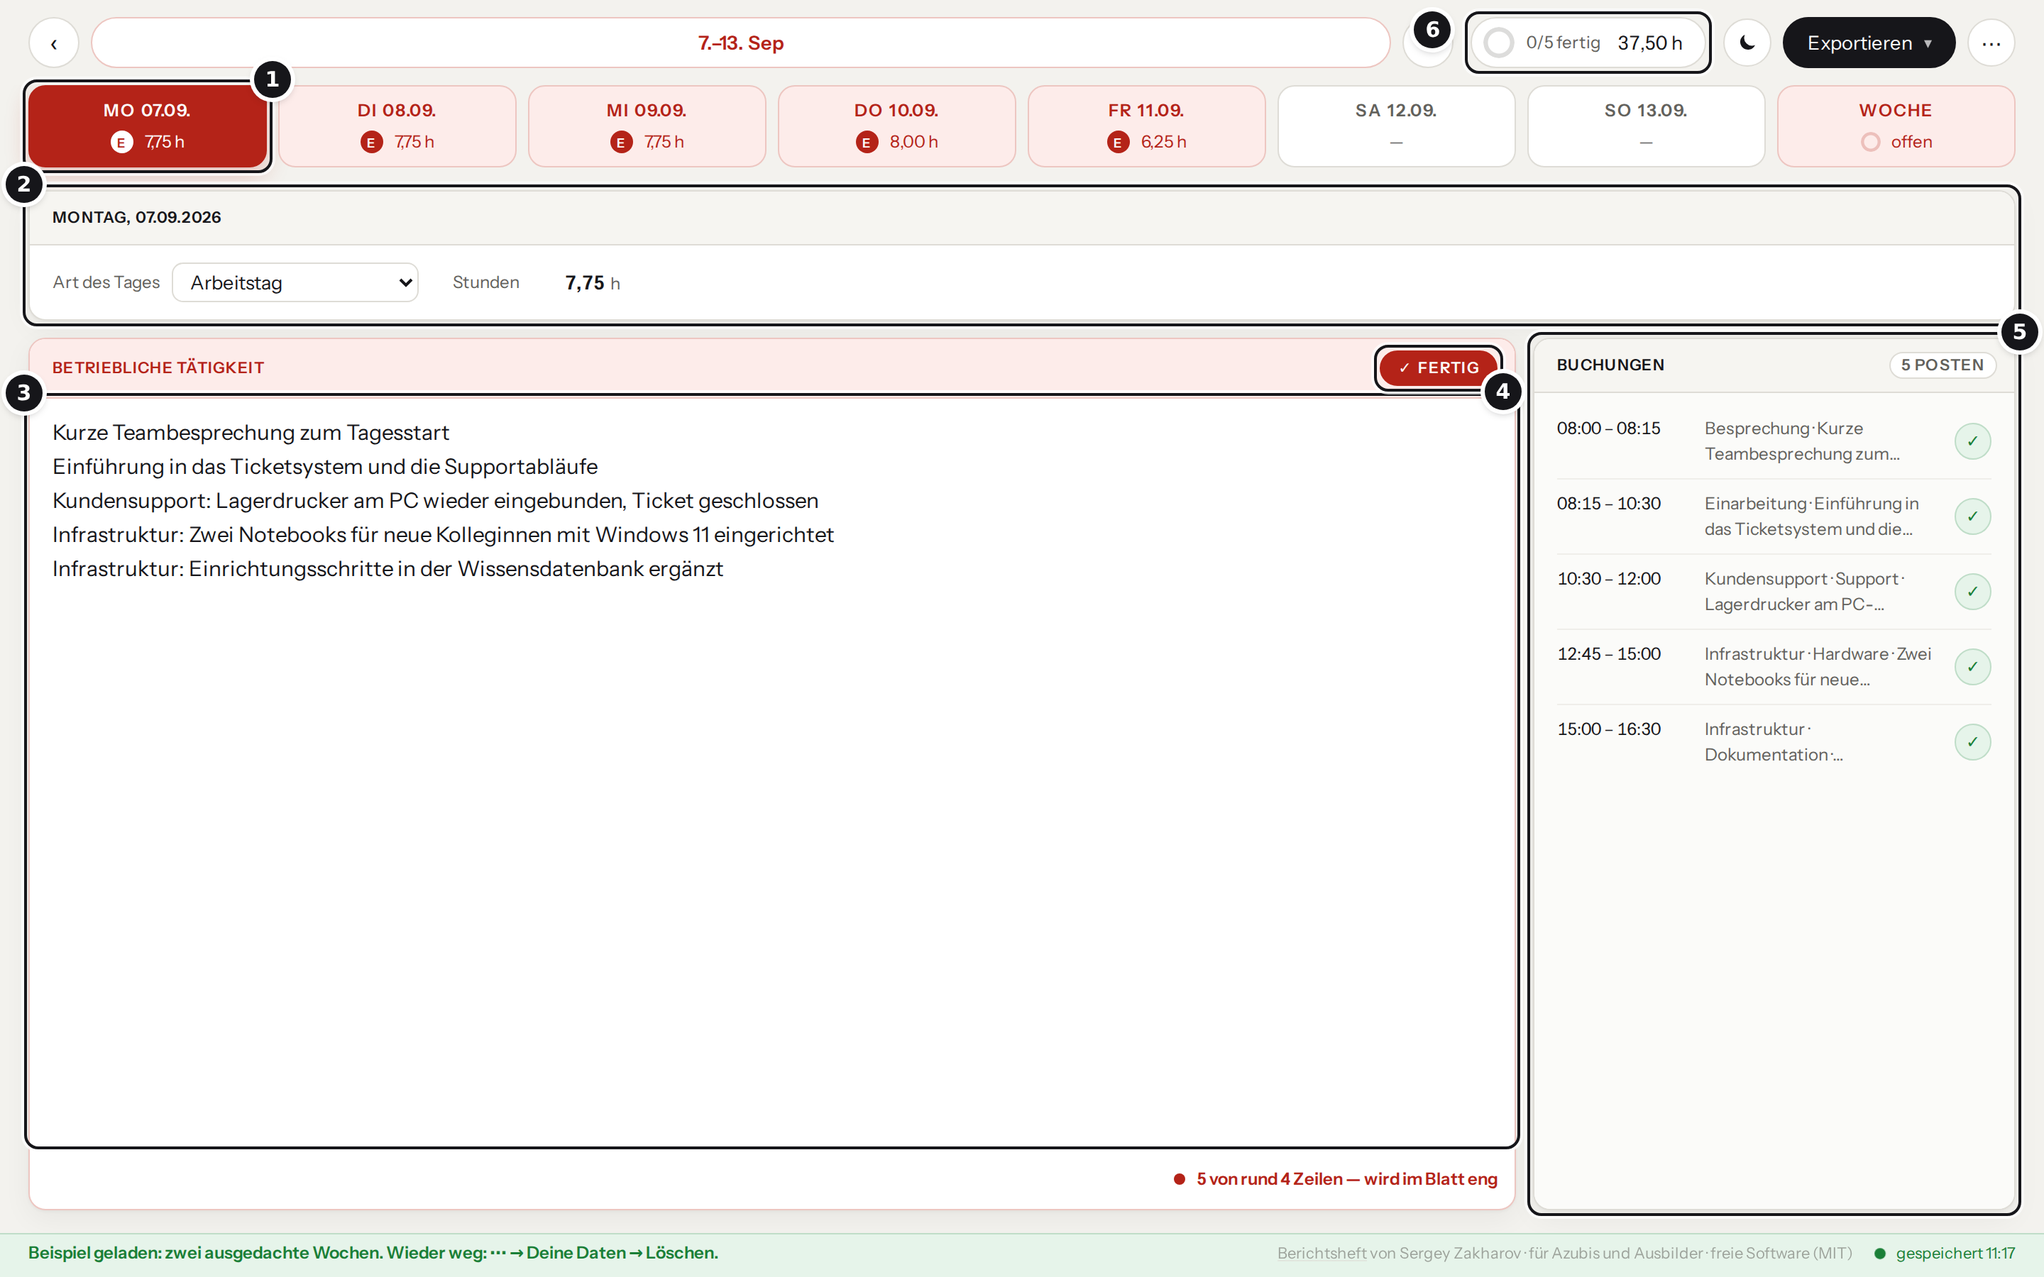
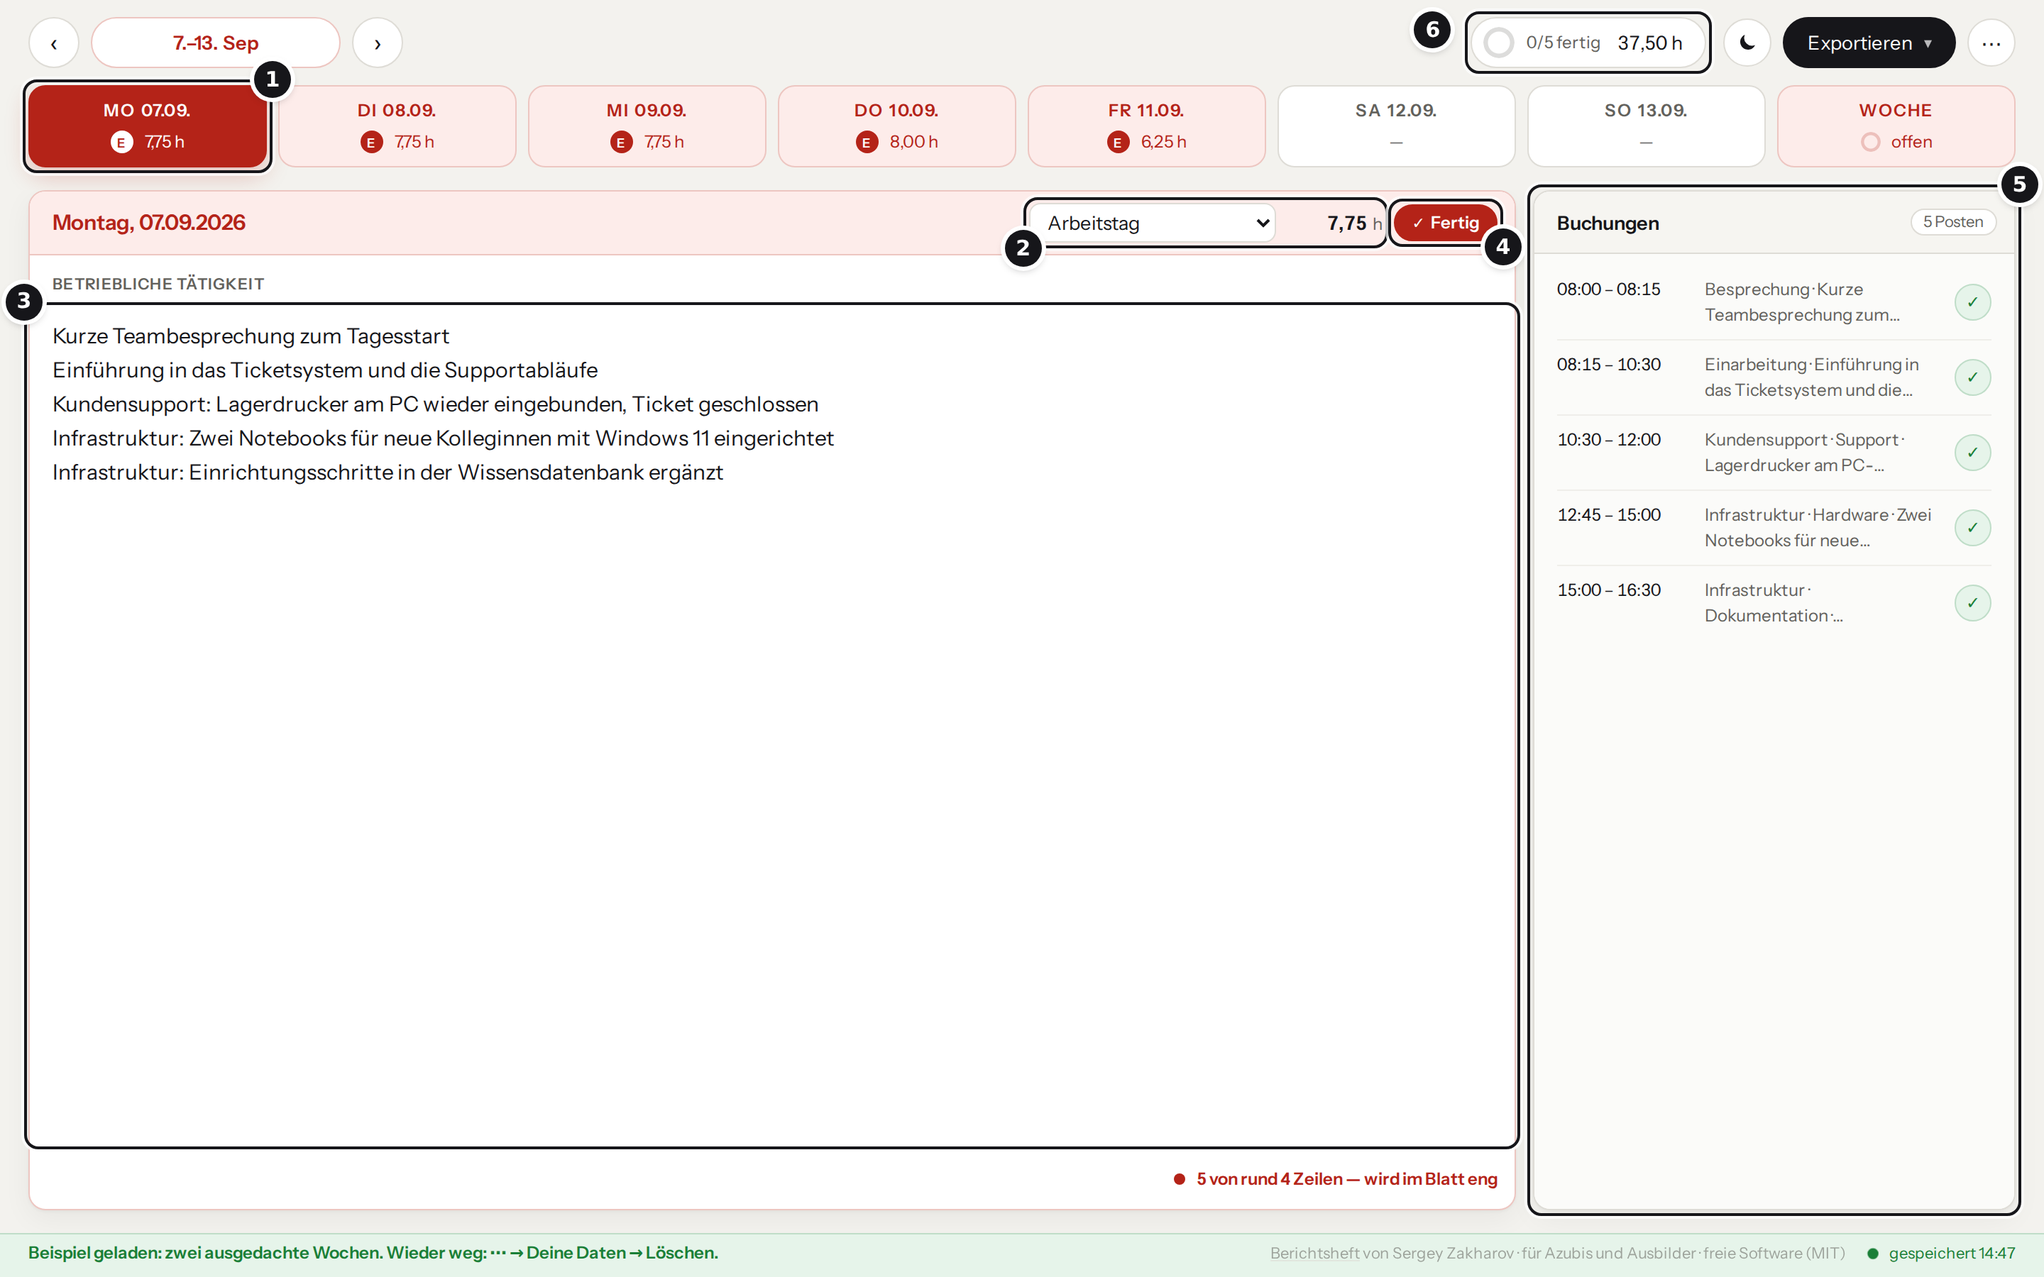
Hauptansicht ruhiger: eine Karte je Tag, Überschriften normal, Wochenwahl kompakt
- Tageskopf und Textkarte werden eine Karte: Das Datum ist ihr Titel, Art des Tages und
  Stunden (tagFelder()) und „Fertig“ stehen im Kopf, über dem Text klein das Feld des
  Vordrucks (.vordruckfeld). Ein freier Tag hat weiter nur seinen Kopf (artSektion()).
  Die Beschriftungen „Art des Tages“ und „Stunden“ sind nur noch für Vorleser da.
- Überschriften der Karten und Knöpfe darin in normaler Schreibung, 13,5 px halbfett;
  Versalien bleiben kleinen Nebenangaben.
- Die Wochenwahl steht kompakt links in der Kopfleiste statt über die ganze Breite; am
  Handy füllt sie wie bisher ihre eigene Zeile. Dort steht in der Tageskarte das Datum
  allein oben, darunter Art, Stunden und „Fertig“.
- Tests suchen die Beschriftung jetzt in .vordruckfeld und die kurze Überschrift in
  normaler Schreibung; Marker im README-Bild zeigt auf Art und Stunden im neuen Kopf.

diff --git a/src/js/ansicht/ansicht-tag.js b/src/js/ansicht/ansicht-tag.js
@@ -81,7 +81,8 @@ function zeichneTag() {
 
   var panel = document.createElement("div");
   panel.className = "tagpanel" + (istFrei ? " frei" : "");
-  panel.appendChild(artSektion(datum, key, t, art, istFrei));
+  // Ein freier Tag hat nur seinen Kopf; sonst stehen Art und Stunden im Kopf der Textkarte.
+  if (istFrei) panel.appendChild(artSektion(datum, key, t, art, istFrei));
 
   if (istFrei) {
     var ruhig = document.createElement("p");
@@ -93,7 +94,7 @@ function zeichneTag() {
     if (tagImWochenfeld(key)) panel.appendChild(wochenfeldHinweis());
     var flaeche = document.createElement("div");
     flaeche.className = "tagflaeche";
-    var textKarte = textSektion(key, t, art, istSchule);
+    var textKarte = textSektion(key, t, art, istSchule, datum);
     flaeche.appendChild(textKarte);
     if (t && t.posten && t.posten.length) flaeche.appendChild(postenSektion(t.posten, textKarte.querySelector("textarea")));
     panel.appendChild(flaeche);
@@ -174,16 +175,27 @@ function zeichneLeerbild(bereich) {
   bereich.appendChild(leer);
 }
 
-/** Kopf des Tages: Art des Tages und Stunden. Die Stunden kommen aus dem Import
- *  und sind nur Anzeige; im Nachweis steht keine Stundenzahl. */
+/** Kopf eines freien Tages: nur Datum und Art. */
 function artSektion(datum, key, t, art, istFrei) {
   var s = sektion(dmy(datum), "artkopf");
-  // Am Handy steht der Wochentag schon im gewählten Reiter; dort fällt er hier weg (handy.css).
+  tagTitel(s, datum);
+  s.leib.appendChild(tagFelder(datum, key, t, art, istFrei));
+  return s.wurzel;
+}
+
+/** Der Wochentag vor dem Datum im Titel. Am Handy steht er schon im Reiter (handy.css). */
+function tagTitel(s, datum) {
   var wochentag = document.createElement("span");
   wochentag.className = "wochentag";
   wochentag.textContent = WOCHENTAGE[datum.getDay()] + ", ";
   s.kopf.firstChild.insertBefore(wochentag, s.kopf.firstChild.firstChild);
+}
 
+/** Art des Tages und Stunden. Die Stunden kommen aus dem Import und sind nur Anzeige; im
+ *  Nachweis steht keine Stundenzahl. Die Beschriftungen sind nur für Vorleser da. */
+function tagFelder(datum, key, t, art, istFrei) {
+  var felder = document.createElement("div");
+  felder.className = "tagfelder";
   var wahl = document.createElement("select");
   wahl.id = "feld-art";
   wahl.className = art ? "gesetzt" : "";
@@ -201,7 +213,7 @@ function artSektion(datum, key, t, art, istFrei) {
     tage[key].artVonHand = true;
     merken(); zeichnen();
   });
-  s.leib.appendChild(feldPaar("Art des Tages", wahl, "feld-art"));
+  felder.appendChild(feldPaar("Art des Tages", wahl, "feld-art"));
 
   if (!istFrei) {
     var wrap = document.createElement("span");
@@ -216,9 +228,9 @@ function artSektion(datum, key, t, art, istFrei) {
     einheit.className = "einheit";
     einheit.textContent = "h";
     wrap.appendChild(einheit);
-    s.leib.appendChild(feldPaar("Stunden", wrap));
+    felder.appendChild(feldPaar("Stunden", wrap));
   }
-  return s.wurzel;
+  return felder;
 }
 
 /**
@@ -229,11 +241,19 @@ function artSektion(datum, key, t, art, istFrei) {
  * ist er grün und schreibgeschützt; "Bearbeiten" öffnet ihn wieder. Jede
  * Änderung hebt die Freigabe auf.
  */
-function textSektion(key, t, art, istSchule) {
-  var s = sektion(
-    istSchule ? (art === "Berufsschule" ? "Berufsschule (Unterrichtsthemen)" : "Inhalte")
-              : "Betriebliche Tätigkeit",
-    "wachsend");
+function textSektion(key, t, art, istSchule, datum) {
+  // Eine Karte je Tag: im Kopf das Datum mit Art, Stunden und „Fertig“, darüber dem Text das Feld
+  // des Vordrucks, in das er kommt.
+  var s = sektion(dmy(datum), "wachsend tagkarte");
+  tagTitel(s, datum);
+  s.kopf.appendChild(tagFelder(datum, key, t, art, false));
+  var feldname = document.createElement("label");
+  feldname.className = "vordruckfeld";
+  feldname.htmlFor = "feld-" + key;
+  feldname.textContent = istSchule
+    ? (art === "Berufsschule" ? "Berufsschule (Unterrichtsthemen)" : "Inhalte")
+    : "Betriebliche Tätigkeit";
+  s.leib.appendChild(feldname);
 
   var ta = document.createElement("textarea");
   ta.id = "feld-" + key;
@@ -292,7 +312,7 @@ function textSektion(key, t, art, istSchule) {
     var stand = tagStand(tage[key]);
     var offen = stand !== "fertig" && stand !== "leer";
     var fertig = stand === "fertig";
-    s.wurzel.className = "sektion wachsend" + (offen ? " pruefen" : fertig ? " fertig" : "");
+    s.wurzel.className = "sektion wachsend tagkarte" + (offen ? " pruefen" : fertig ? " fertig" : "");
     uebernehmen.hidden = !offen;
     bearbeiten.hidden = !fertig;
     ta.readOnly = fertig;

diff --git a/src/css/tag.css b/src/css/tag.css
@@ -49,10 +49,11 @@ body.ohnewoche .leerbild { margin: var(--luft-2) var(--luft-5); }
   border: 1px solid var(--linie); border-radius: var(--rund); box-shadow: var(--schatten);
 }
 .sektion.wachsend { flex: 1 1 auto; display: flex; flex-direction: column; min-height: 110px; }
+/* Überschriften in normaler Schreibung: Kleine Versalien in jeder Karte lasen sich schwer und
+   machten alles gleich laut. Versalien bleiben kleinen Nebenangaben (.vordruckfeld, .seitentitel). */
 .sektionskopf {
-  margin: 0; padding: var(--luft-2) var(--luft-3) var(--luft-2) var(--luft-4); min-height: 38px; display: flex; align-items: center; gap: var(--luft-2);
-  font-size: var(--schrift-fein); font-weight: 600; letter-spacing: var(--sperrung); line-height: 1.35;
-  text-transform: uppercase; color: var(--text);
+  margin: 0; padding: var(--luft-2) var(--luft-3) var(--luft-2) var(--luft-4); min-height: 44px; display: flex; align-items: center; gap: var(--luft-2);
+  font-size: var(--schrift-text); font-weight: 600; line-height: 1.35; color: var(--text);
   background: var(--band); border-bottom: 1px solid var(--linie);
 }
 .sektionskopf > span:first-child { flex: 1 1 auto; min-width: 0; }
@@ -87,8 +88,7 @@ body.ohnewoche .leerbild { margin: var(--luft-2) var(--luft-5); }
 }
 .sektionsknopf {
   flex: none; display: inline-flex; align-items: center; gap: var(--luft-1);
-  font: inherit; font-size: var(--schrift-fein); font-weight: 600; letter-spacing: var(--sperrung);
-  text-transform: uppercase; white-space: nowrap;
+  font: inherit; font-size: var(--schrift-klein); font-weight: 600; white-space: nowrap;
   background: var(--flaeche); color: var(--text);
   border: 1px solid var(--linie); border-radius: var(--rund-voll); padding: var(--luft-1) var(--luft-3);
   transition: background-color .15s, color .15s, border-color .15s;
@@ -214,8 +214,21 @@ body.ohnewoche .leerbild { margin: var(--luft-2) var(--luft-5); }
 }
 .tagpanel select:hover, .tagpanel select:focus { background: var(--band); border-color: var(--linie-fest); }
 
+/* Eine Karte je Tag: Datum als Titel, Art und Stunden daneben, darüber dem Text das Feld des
+   Vordrucks. Vorher standen Tageskopf und Text in zwei Karten übereinander. */
+.tagkarte > .sektionskopf { font-size: var(--schrift-gross); }
+.tagfelder { display: flex; align-items: center; gap: var(--luft-3); font-size: var(--schrift-text); font-weight: 400; }
+.tagkarte .tagfelder { margin-left: auto; }
+.tagkarte .feldetikett, .artkopf .feldetikett {
+  position: absolute; width: 1px; height: 1px; overflow: hidden; clip-path: inset(50%); white-space: nowrap;
+}
+.vordruckfeld {
+  flex: none; display: block; padding: var(--luft-3) var(--luft-4) 0;
+  font-size: var(--schrift-fein); font-weight: 600; letter-spacing: var(--sperrung);
+  text-transform: uppercase; color: var(--schiefer);
+}
 .tagpanel textarea {
-  flex: 1 1 auto; width: 100%; min-height: 100px; padding: var(--luft-3) var(--luft-4);
+  flex: 1 1 auto; width: 100%; min-height: 100px; padding: var(--luft-2) var(--luft-4) var(--luft-3);
   font: inherit; font-size: var(--schrift-gross); line-height: 1.6;
   color: var(--text); background: var(--flaeche);
   border: none; resize: none; overflow: auto;
@@ -308,7 +321,7 @@ body.ohnewoche .leerbild { margin: var(--luft-2) var(--luft-5); }
 
 /* Buchungen aus Kimai neben dem Text. */
 .postenzahl {
-  flex: none; font-size: var(--schrift-fein); letter-spacing: var(--sperrung); color: var(--schiefer);
+  flex: none; font-size: var(--schrift-fein); font-weight: 400; color: var(--schiefer);
   background: var(--flaeche); border: 1px solid var(--linie); border-radius: var(--rund-voll); padding: 1px var(--luft-2);
 }
 .sektion.posten .sektionsleib { padding: 0; display: block; overflow: hidden; }

diff --git a/src/css/handy.css b/src/css/handy.css
@@ -33,7 +33,7 @@
 
   .wochenschalter { gap: var(--luft-2); }
   .wochenschalter .rundknopf { width: 34px; height: 34px; }
-  .wochenknopf { padding: 0 var(--luft-3); height: 34px; line-height: 32px; font-size: var(--schrift-klein); }
+  .wochenknopf { flex: 1 1 auto; padding: 0 var(--luft-3); height: 34px; line-height: 32px; font-size: var(--schrift-klein); }
   .wochensumme { height: 34px; padding: 0 var(--luft-3) 0 var(--luft-2); gap: var(--luft-2); font-size: var(--schrift-klein); }
   .leiste .schub .farbknopf { width: 34px; height: 34px; }
   .wsanteil { gap: var(--luft-1); }
@@ -65,7 +65,11 @@
     flex: 1 1 auto; min-height: 0; padding: 0; letter-spacing: var(--sperrung);
     background: none; border: 0;
   }
-  .artkopf > .sektionskopf .wochentag { display: none; }
+  .artkopf > .sektionskopf .wochentag, .tagkarte > .sektionskopf .wochentag { display: none; }
+  .tagkarte .tagfelder select { width: 10em; max-width: 100%; }
+  /* Datum allein in der ersten Zeile, darunter Art und Stunden links, „Fertig“ rechts. */
+  .tagkarte > .sektionskopf > span:first-child { flex: 1 1 100%; }
+  .tagkarte .tagfelder { margin-left: 0; flex: 1 1 auto; }
   .artkopf > .sektionsleib { flex: 1 1 auto; justify-content: space-between; padding: 0; gap: var(--luft-3); flex-wrap: nowrap; }
   .artkopf .feldpaar { flex: none; }
   /* Sonst so breit wie die längste Art („Betriebsversammlung“), und die Zeile bräche um. */

diff --git a/src/css/leiste.css b/src/css/leiste.css
@@ -56,14 +56,16 @@ body.ohnewoche .leiste .schub { margin-left: auto; }
 }
 
 /* ---------- Wochenbalken: Blättern, Wochenknopf, Summe ---------- */
-.wochenbalken { flex: 1 1 auto; min-width: 0; display: flex; align-items: center; }
+/* Die Wochenwahl kompakt links, Stand und Aktionen rechts: Ein Knopf über die ganze Breite mit
+   etwas Text in der Mitte wirkte leer. Am Handy füllt sie ihre eigene Zeile (handy.css). */
+.wochenbalken { flex: 0 1 auto; min-width: 0; display: flex; align-items: center; margin-right: auto; }
 .wochenschalter { display: flex; align-items: center; gap: var(--luft-2); flex: 1 1 auto; min-width: 0; }
 .wochenschalter .rundknopf { width: 36px; height: 36px; font-size: var(--schrift-titel); }
 /* block statt flex, sonst schneidet ein zu langes Etikett links und rechts ab
    statt mit Auslassungspunkten zu enden. */
 .wochenknopf {
   font: inherit; cursor: pointer; display: block; text-align: center; line-height: 34px;
-  flex: 1 1 auto; min-width: 0; height: 36px; padding: 0 var(--luft-4); font-size: var(--schrift-text);
+  flex: 0 1 auto; min-width: 176px; height: 36px; padding: 0 var(--luft-5); font-size: var(--schrift-text);
   white-space: nowrap; overflow: hidden; text-overflow: ellipsis;
   background: var(--flaeche); color: var(--text);
   border: 1px solid var(--linie); border-radius: var(--rund-voll);

diff --git a/docs/bilder/aufnehmen.js b/docs/bilder/aufnehmen.js
@@ -59,9 +59,9 @@ const ziel = (name) => path.join(__dirname, name);
   await page.waitForTimeout(800);
   await h.markieren(page, [
     ['.reiter button', 1, 'rechts'],                 // Montag bis Sonntag, Farbe zeigt den Stand
-    ['.tagpanel > .sektion', 2],                     // Art des Tages und Stunden
+    ['.tagkarte .tagfelder', 2, 'unten-links'],      // Art des Tages und Stunden
     ['.tagflaeche .sektion.wachsend textarea', 3],   // Text, der ins Heft kommt
-    ['.sektionsknopf.uebernehmen', 4, 'unten-rechts'],  // Entwurf oder fertig
+    ['.sektionsknopf.uebernehmen', 4, 'unten-rechts'],  // Fertig
     ['.sektion.posten', 5, 'rechts'],                // Buchungen aus dem Import
     ['#wochensumme', 6, 'davor'],                    // Stunden der Woche
   ]);

diff --git a/test/schulplan.js b/test/schulplan.js
@@ -174,7 +174,7 @@ async function schultagSchalten(page, kurz) {
   await page.waitForTimeout(300);
   pruefe('Art des Tages steht auf Berufsschule', (await page.inputValue('#feld-art')) === 'Berufsschule');
   pruefe('Das Feld fragt nach den Unterrichtsthemen',
-    (await page.locator('.sektion.wachsend .sektionskopf').textContent()).includes('Unterrichtsthemen'));
+    (await page.locator('.sektion.wachsend .vordruckfeld').textContent()).includes('Unterrichtsthemen'));
   pruefe('Solange der Tag leer ist, wird nichts gespeichert', (await gespeichert(page, '2026-09-10')) === null);
   await page.fill('.tagpanel textarea', 'Lernfeld 5: Subnetting');
   await page.waitForTimeout(600);

diff --git a/test/lauf.js b/test/lauf.js
@@ -125,7 +125,7 @@ const NAME = 'Mustermann, Max';
   pruefe('Berufsschule hat weiterhin ein Textfeld',
     (await page.locator('.tagpanel textarea').count()) === 1);
   pruefe('Beschriftung wechselt auf Unterrichtsthemen',
-    (await page.locator('.sektion.wachsend .sektionskopf').textContent()).includes('Unterrichtsthemen'));
+    (await page.locator('.sektion.wachsend .vordruckfeld').textContent()).includes('Unterrichtsthemen'));
   pruefe('Bearbeitbare Bereiche sind abgesetzt',
     (await page.locator('.tagpanel .sektion').count()) >= 2,
     (await page.locator('.tagpanel .sektion').count()) + ' Sektionen');

diff --git a/test/hinweise.js b/test/hinweise.js
@@ -424,7 +424,7 @@ const tag = (text, extra = {}) => ({ text, art: '', pausen: [], posten: [], geae
       return { text: k.innerText, hoehe: k.getBoundingClientRect().height };
     });
     pruefe('Am Handy: kurzer Titel „Unterweisungen und Schulungen“ in einer Zeile',
-      kopf.text.trim() === 'UNTERWEISUNGEN UND SCHULUNGEN' && kopf.hoehe < 50, JSON.stringify(kopf));
+      kopf.text.trim() === 'Unterweisungen und Schulungen' && kopf.hoehe < 50, JSON.stringify(kopf));
     await ctx.close();
   }
 

diff --git a/docs/ENTWICKLUNG.md b/docs/ENTWICKLUNG.md
@@ -86,7 +86,7 @@ Die Ordner ordnen nach Aufgabe; für den Build zählt allein die Liste `JS` in `
 | --- | --- |
 | `ansicht-woche.js` | Wochenbalken, Monatsraster, Navigation durch jede Kalenderwoche, nach „Fertig“ weiter zum nächsten offenen Tag (`weiterNachFertig()`) |
 | `reiter.js` | `zeichnen()`, Reiterzeile: je Werktag ein Reiter, dazu der Reiter „Woche“; in einer Blockwoche nur der Reiter „Blockwoche“ |
-| `ansicht-tag.js` | Bausteine der Karten (`sektion()` mit kurzem Titel fürs Handy, `mitRueckfrage()`) und der Tagbereich: Text, Buchungen mit Plus zum Übernehmen, KI-Knopf, Startkarte ohne Woche |
+| `ansicht-tag.js` | Bausteine der Karten (`sektion()` mit kurzem Titel fürs Handy, `mitRueckfrage()`) und der Tagbereich: eine Karte je Tag (`textSektion()`, im Kopf Datum, Art und Stunden aus `tagFelder()`, über dem Text das Feld des Vordrucks), Buchungen mit Plus zum Übernehmen, KI-Knopf, Startkarte ohne Woche; ein freier Tag hat nur seinen Kopf (`artSektion()`) |
 | `wochenblatt.js` | Reiter „Woche“: Angaben, Blattvorschau (`blattVorschau()`), rechts `seitenspalte()` – eine Karte „Wochenblatt“ mit Umfang und KI; heruntergeladen wird über „Exportieren“ |
 | `schulwoche.js` | Themen einer Blockwoche (`schulwocheSektion()`) und die Tage der Blockwoche mit ihrer Art |
 | `stammdaten.js` | Dialog „Deine Daten“ (Reiter Ausbildung, Schule, Vordruck, Deckblatt, KI, Löschen), Verbindungsprüfung, Löschen und Verwerfen |
@@ -119,7 +119,7 @@ Modus tauscht sie unter `prefers-color-scheme: dark`; Schrift, Grundgerüst),
 `leiste.css` (Kopfleiste, Wochenbalken, Reiter), `tag.css` (Tagbereich, Sektionen, Wochenansicht,
 Eingaben, Meldungen), `dialoge.css` (Monatsraster, „Deine Daten“, Zuordnung, Rundgang),
 `handy.css` (alle `@media`-Regeln für Handy und Tablet; dort stehen die Tagesreiter in einer Zeile
-mit der Woche breit darunter, und der Tageskopf `.artkopf` mit Datum, Art und Stunden in einer Zeile, damit das Schreibfeld auch mit
+mit der Woche breit darunter, und im Kopf der Tageskarte `.tagkarte` steht das Datum allein, darunter Art, Stunden und „Fertig“ in einer Zeile, damit das Schreibfeld auch mit
 offener Tastatur Platz hat; die Regeln greifen auch beim Drucken, denn A4 ist schmaler als 820 px,
 also dort keine Klassen aus dem Blatt wie `.tagkopf`, `.kasten` oder `.tagestabelle` verwenden),
 `ausbilder.css` (Konto und Ausbilderansicht),

diff --git a/CHANGELOG.md b/CHANGELOG.md
@@ -17,6 +17,10 @@ Werkzeug arbeitet. Was im Browser gespeichert ist, bleibt ladbar.
   Übersicht, Kalender, Zuordnung und Rückfragen; die Knöpfe stehen unten rechts. Alle Felder sind
   gleich hoch, auch Datum und Auswahl. Die Einrichtung hat größere Felder und Knöpfe, Willkommen
   und Abschluss stehen mittig, und beim Öffnen hat „Später“ keinen Fokusrahmen mehr.
+- **Eine Karte je Tag:** Das Datum ist ihr Titel, Art des Tages, Stunden und „Fertig“ stehen im
+  Kopf, über dem Text klein das Feld des Vordrucks. Vorher standen Tageskopf und Text in zwei
+  Karten übereinander. Überschriften der Karten in normaler Schreibung statt Versalien, und die
+  Wochenwahl steht kompakt links in der Kopfleiste.
 
 ## [0.2.0] – 2026-09-29
 
